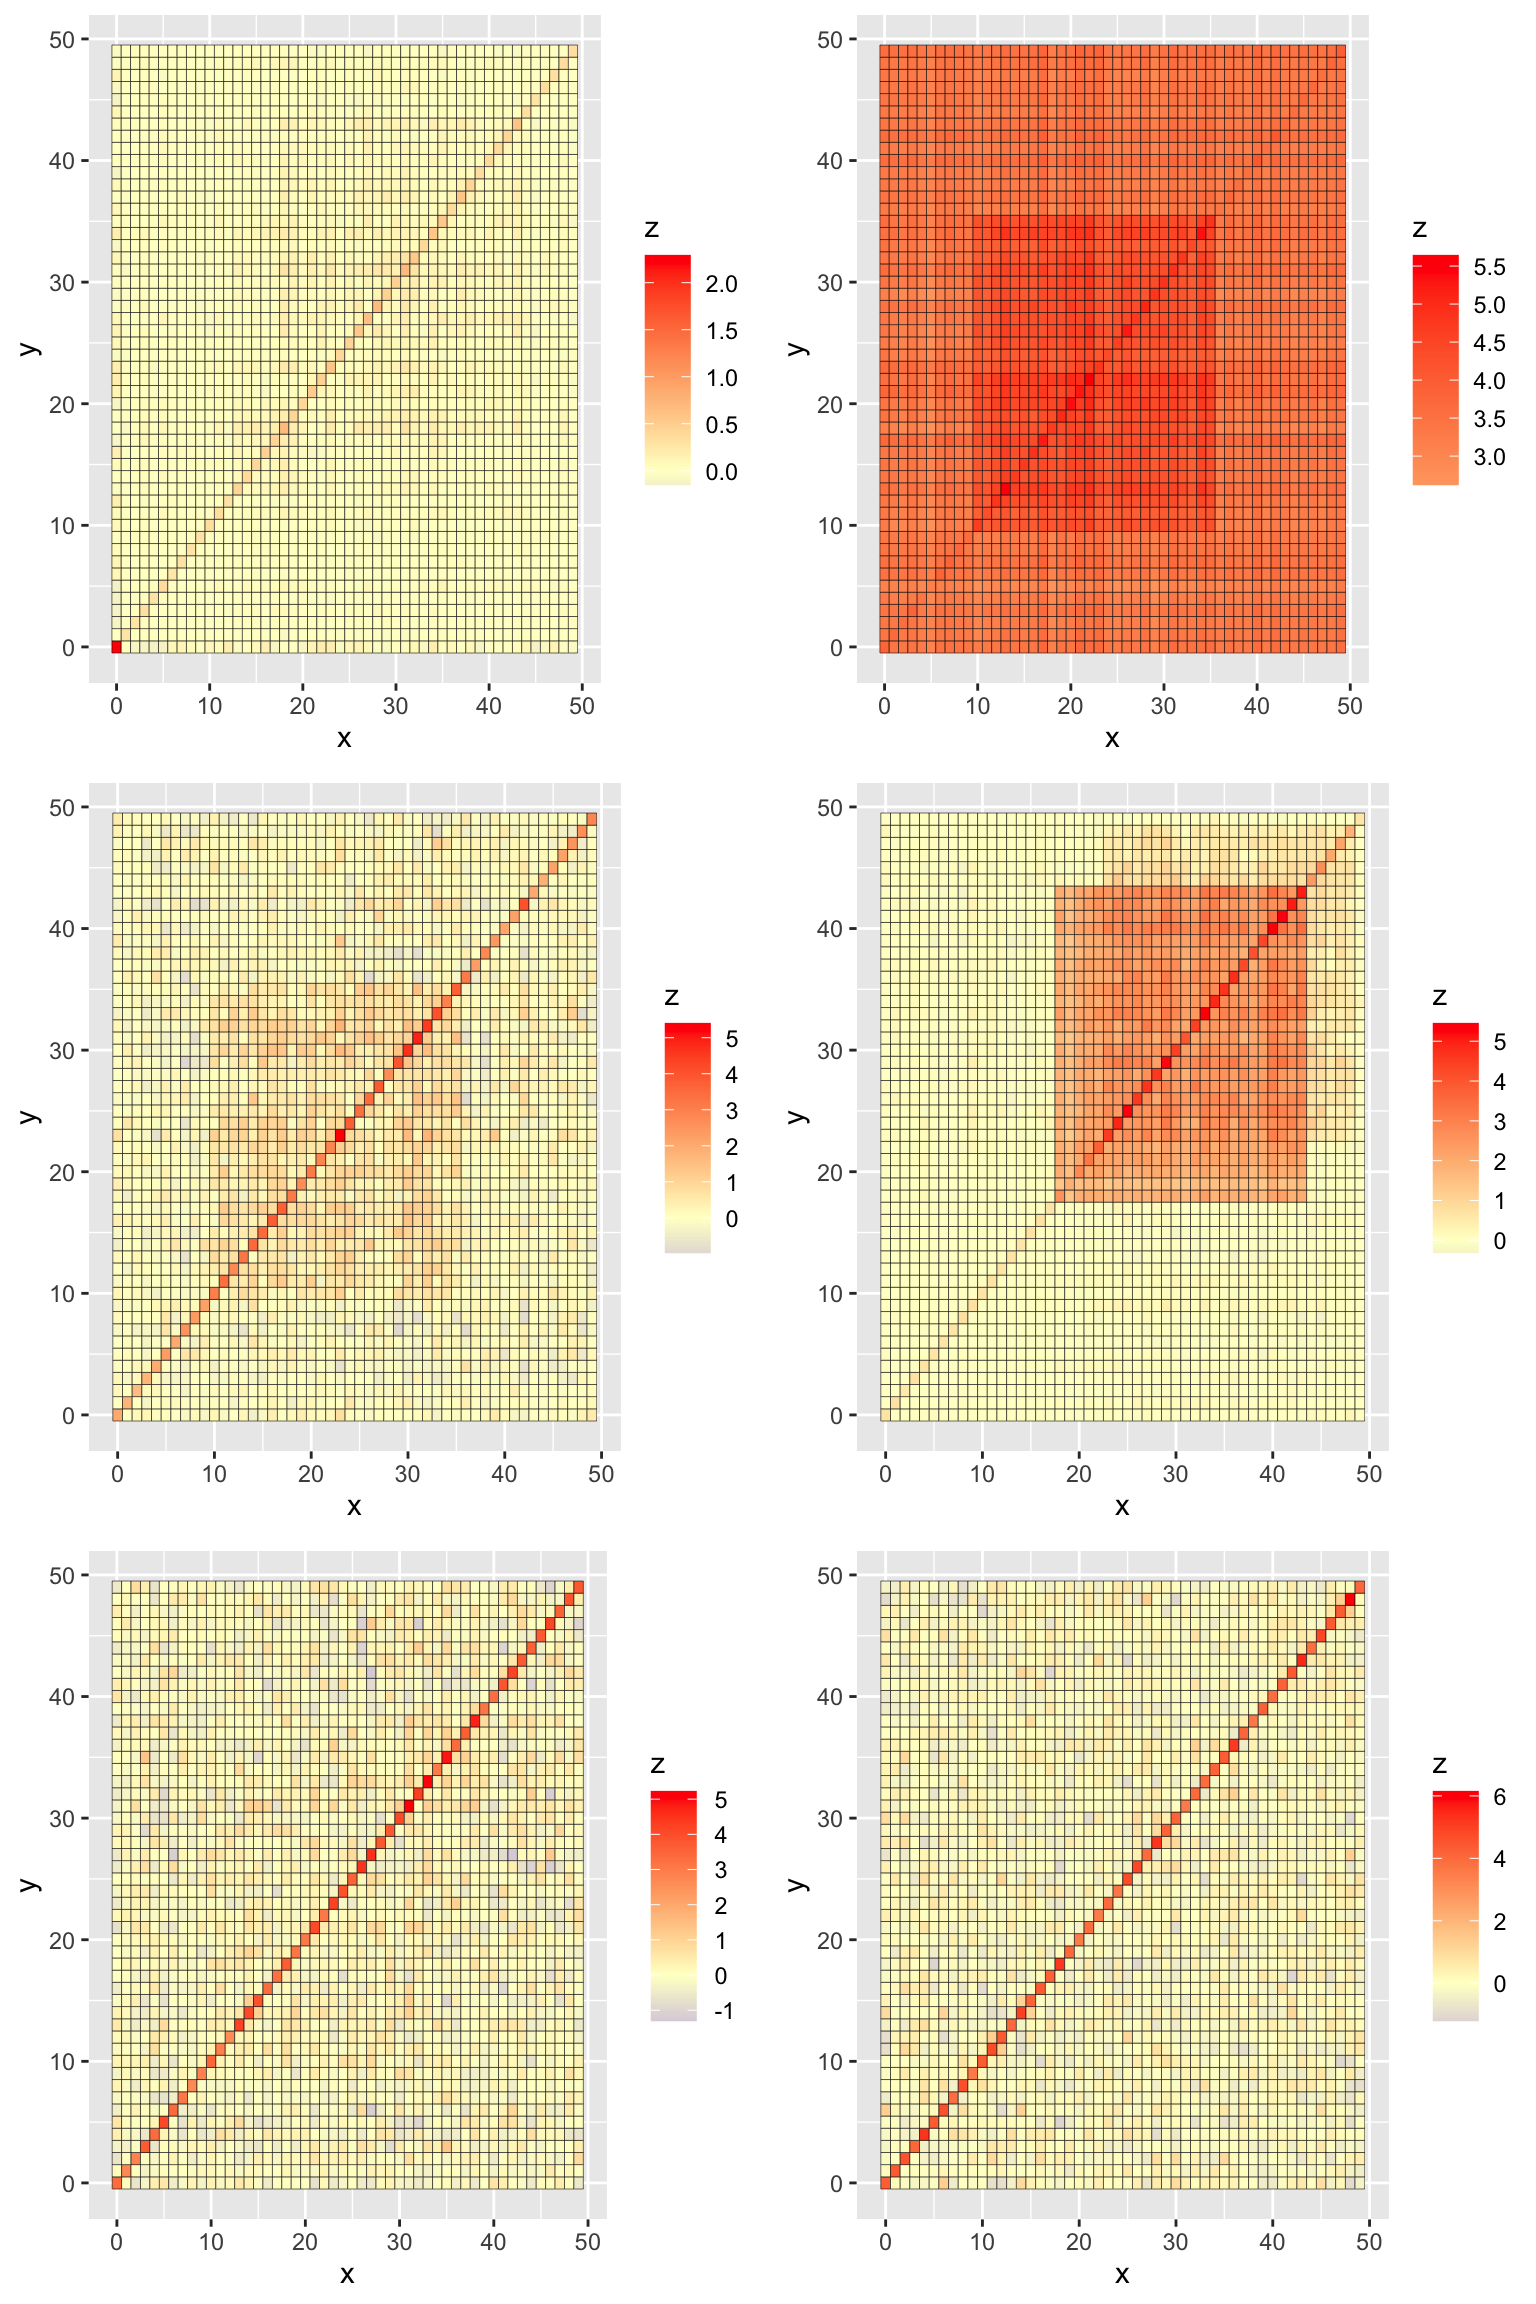
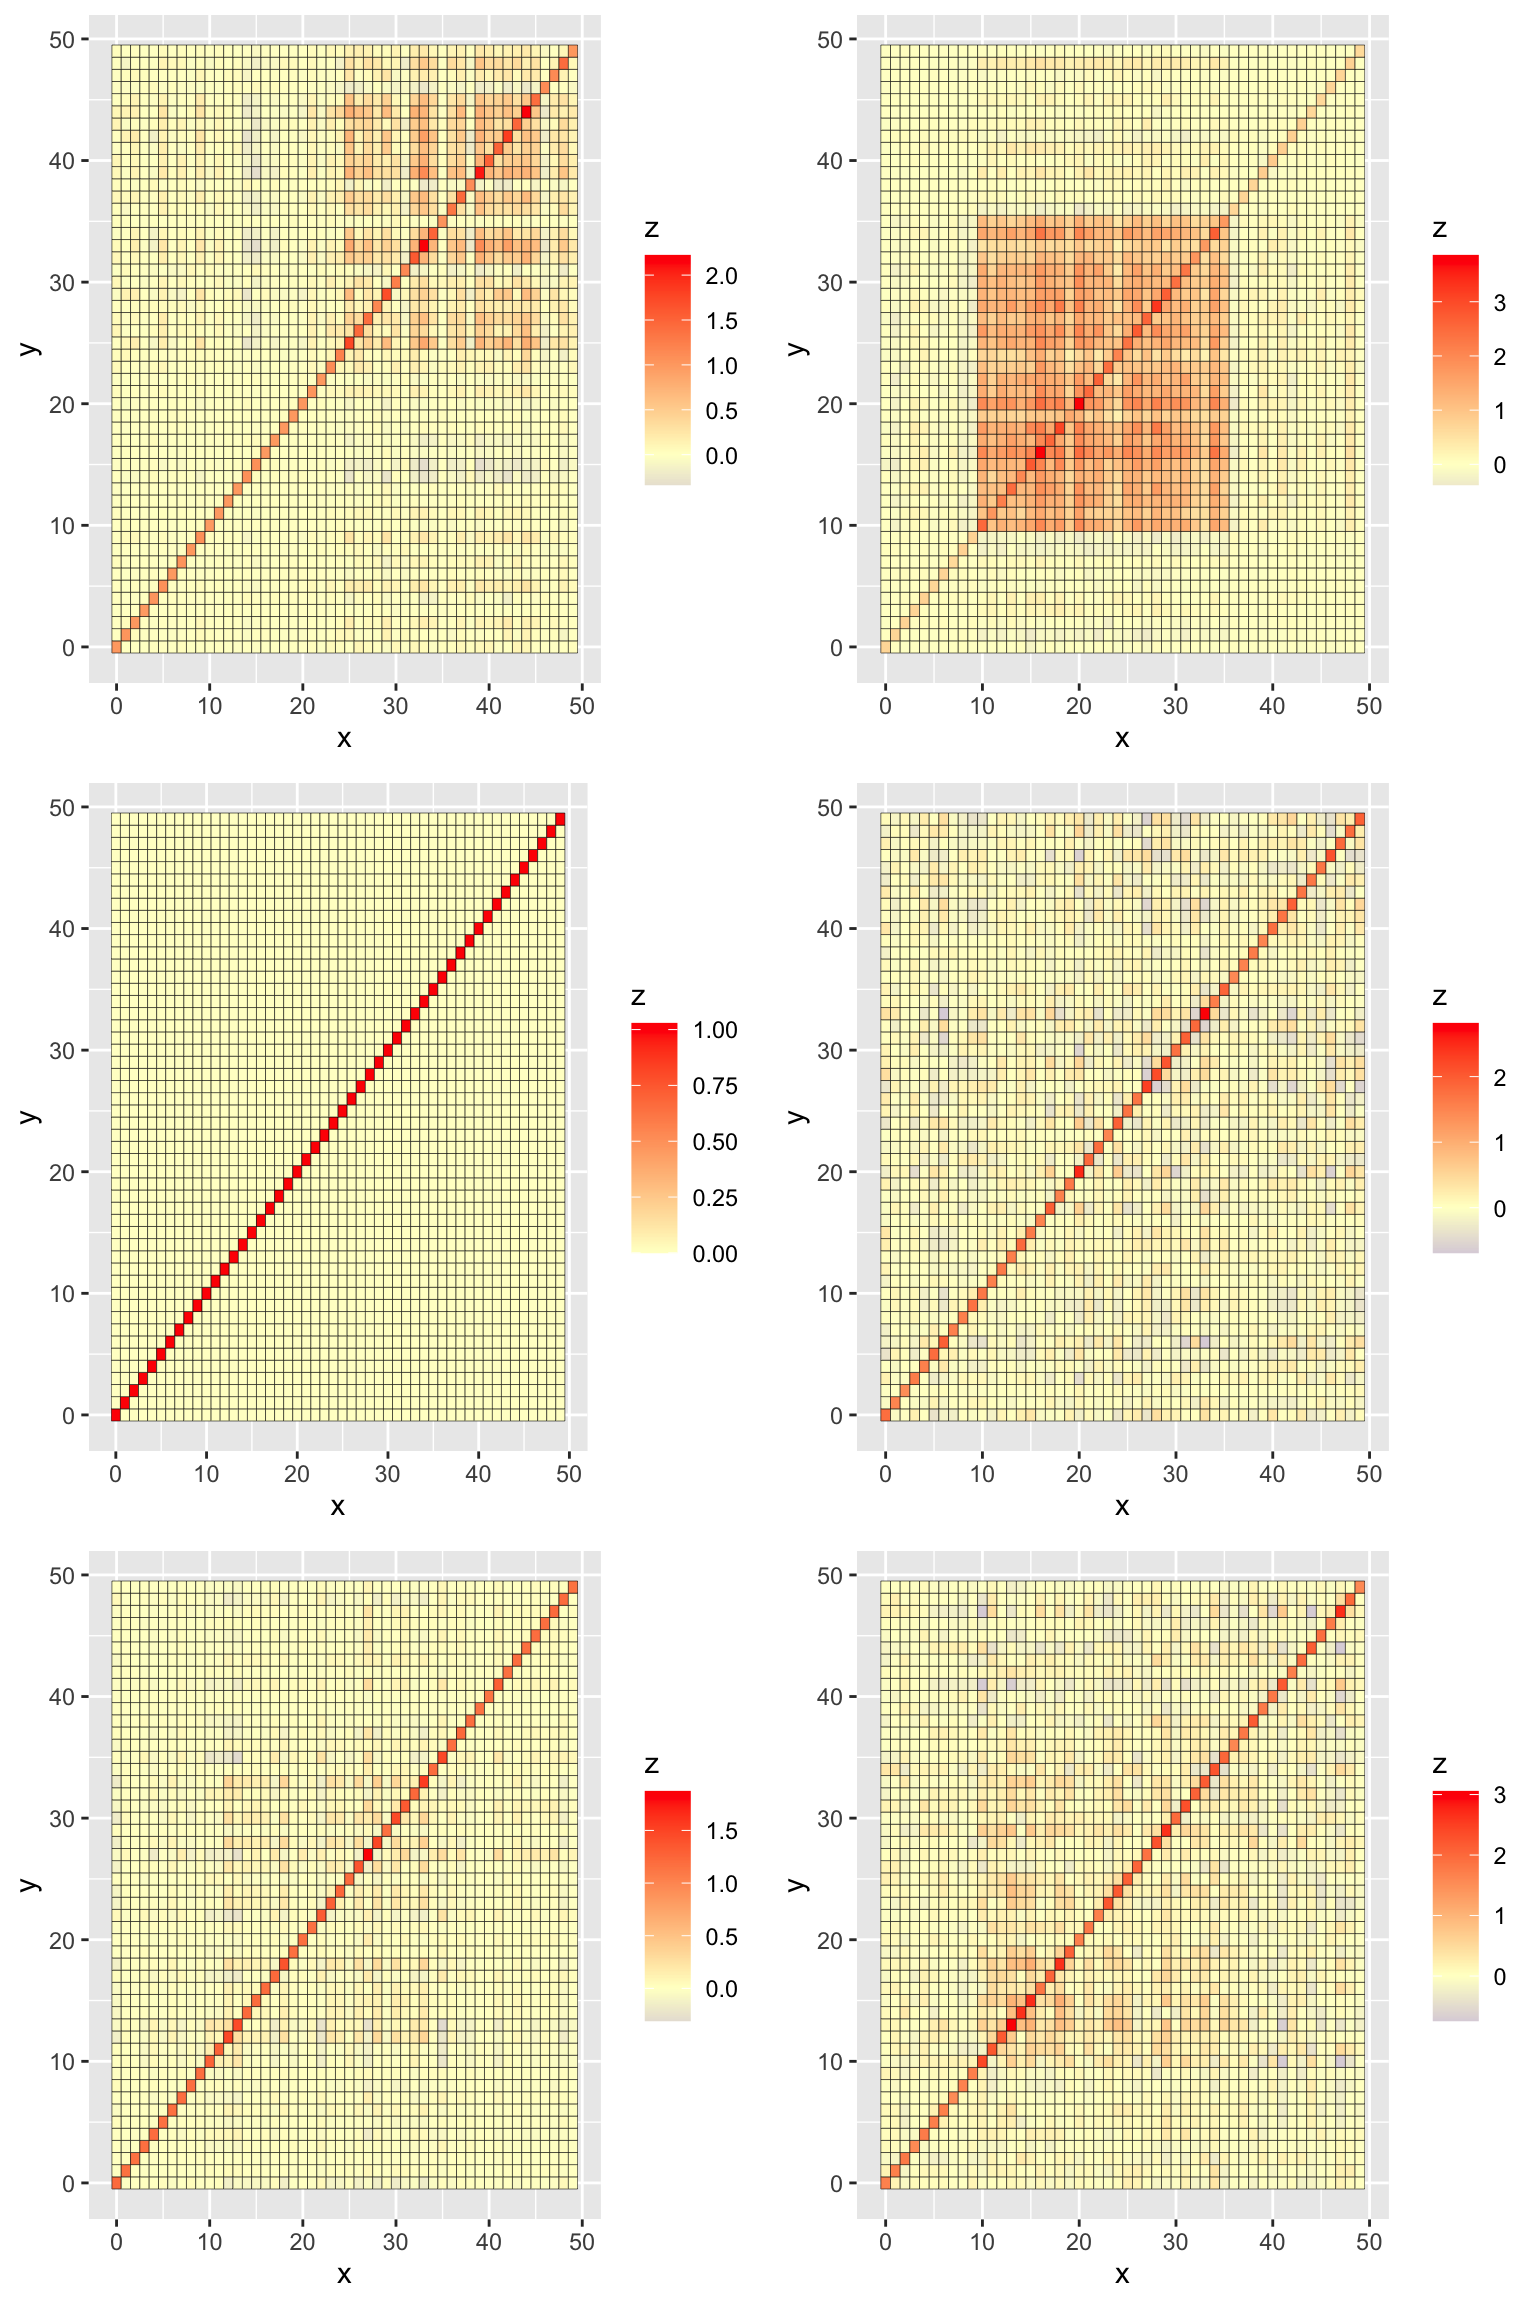
Build site.

diff --git a/docs/vary_ncomp.html b/docs/vary_ncomp.html
@@ -476,16 +476,16 @@ This reproducible <a href="http://rmarkdown.rstudio.com">R Markdown</a> analysis
 <div class="panel panel-default">
 <div class="panel-heading">
 <p class="panel-title">
-<a data-toggle="collapse" data-parent="#workflowr-checks" href="#strongRepositoryversionstrongahrefhttpsgithubcomyunqiyang0215udrpapertree51f354dd8ea254bd65b4e93625f30508cc0e09d2targetblank51f354da"> <span class="glyphicon glyphicon-ok text-success" aria-hidden="true"></span> <strong>Repository version:</strong> <a href="https://github.com/yunqiyang0215/udr-paper/tree/51f354dd8ea254bd65b4e93625f30508cc0e09d2" target="_blank">51f354d</a> </a>
+<a data-toggle="collapse" data-parent="#workflowr-checks" href="#strongRepositoryversionstrongahrefhttpsgithubcomyunqiyang0215udrpapertreebd311a429152110260af1f727cf86dde5a1da6e1targetblankbd311a4a"> <span class="glyphicon glyphicon-ok text-success" aria-hidden="true"></span> <strong>Repository version:</strong> <a href="https://github.com/yunqiyang0215/udr-paper/tree/bd311a429152110260af1f727cf86dde5a1da6e1" target="_blank">bd311a4</a> </a>
 </p>
 </div>
[2 lines of base64/hex data omitted]
 <div class="panel-body">
 <p>
 Great! You are using Git for version control. Tracking code development and connecting the code version to the results is critical for reproducibility.
 </p>
 <p>
-The results in this page were generated with repository version <a href="https://github.com/yunqiyang0215/udr-paper/tree/51f354dd8ea254bd65b4e93625f30508cc0e09d2" target="_blank">51f354d</a>. See the <em>Past versions</em> tab to see a history of the changes made to the R Markdown and HTML files.
+The results in this page were generated with repository version <a href="https://github.com/yunqiyang0215/udr-paper/tree/bd311a429152110260af1f727cf86dde5a1da6e1" target="_blank">bd311a4</a>. See the <em>Past versions</em> tab to see a history of the changes made to the R Markdown and HTML files.
 </p>
 <p>
 Note that you need to be careful to ensure that all relevant files for the analysis have been committed to Git prior to generating the results (you can use <code>wflow_publish</code> or <code>wflow_git_commit</code>). workflowr only checks the R Markdown file, but you know if there are other scripts or data files that it depends on. Below is the status of the Git repository when the results were generated:
@@ -539,6 +539,40 @@ Message
 </tr>
 </thead>
 <tbody>
+<tr>
+<td>
+Rmd
+</td>
+<td>
+<a href="https://github.com/yunqiyang0215/udr-paper/blob/bd311a429152110260af1f727cf86dde5a1da6e1/analysis/vary_ncomp.Rmd" target="_blank">bd311a4</a>
+</td>
+<td>
+yunqiyang0215
+</td>
+<td>
+2022-11-28
+</td>
+<td>
+wflow_publish("analysis/vary_ncomp.Rmd")
+</td>
+</tr>
+<tr>
+<td>
+html
+</td>
+<td>
+<a href="https://rawcdn.githack.com/yunqiyang0215/udr-paper/2a2ae3602fefedbb520cd20e6aff18c40352d4df/docs/vary_ncomp.html" target="_blank">2a2ae36</a>
+</td>
+<td>
+yunqiyang0215
+</td>
+<td>
+2022-11-28
+</td>
+<td>
+Build site.
+</td>
+</tr>
 <tr>
 <td>
 Rmd
@@ -1141,6 +1175,7 @@ yunqiyang0215
 <div id="components" class="section level1">
 <h1>100 components</h1>
 <pre class="r"><code># Initialization
+ncomp = 100
 set.seed(888)
 U.init = c()
 for (k in 1:ncomp){
@@ -1155,14 +1190,20 @@ fit.ed_reg = ud_fit(f0, control = list(unconstrained.update = &quot;ed&quot;, re
                                     tol = 1e-02, tol.lik = 1e-2, n0 = round(R), lambda = 0, maxiter = 5e3), verbose=FALSE)
 fit.ted = ud_fit(f0, control = list(unconstrained.update = &quot;ted&quot;, resid.update = &#39;none&#39;,
                                         tol = 1e-02, tol.lik = 1e-2, n0 = 0, lambda = 0, maxiter = 5e3), verbose=FALSE)</code></pre>
+<div class="alert alert-warning">
+<p>
+<strong>Warning:</strong> The above code chunk cached its results, but it won’t be re-run if previous chunks it depends on are updated. If you need to use caching, it is highly recommended to also set <code>knitr::opts_chunk$set(autodep = TRUE)</code> at the top of the file (in a chunk that is not cached). Alternatively, you can customize the option <code>dependson</code> for each individual chunk that is cached. Using either <code>autodep</code> or <code>dependson</code> will remove this warning. See the <a href="https://yihui.name/knitr/options/#cache"
+>knitr cache options</a> for more details.
+</p>
+</div>
 <div id="check-mixture-model-weights-1" class="section level4">
 <h4>Check mixture model weights</h4>
 <pre class="r"><code>sum(fit.ted_reg$w &gt; 1e-2)
 sum(fit.ed_reg$w &gt; 1e-2)
 sum(fit.ted$w &gt; 1e-2)
-# [1] 6
-# [1] 6
-# [1] 6</code></pre>
+# [1] 5
+# [1] 15
+# [1] 40</code></pre>
 <pre class="r"><code>U.ted_reg &lt;- lapply(fit.ted_reg$U,function (e) &quot;[[&quot;(e,&quot;mat&quot;))
 U.ed_reg &lt;- lapply(fit.ed_reg$U,function (e) &quot;[[&quot;(e,&quot;mat&quot;))
 U.ted &lt;- lapply(fit.ed_reg$U,function (e) &quot;[[&quot;(e,&quot;mat&quot;))
@@ -1373,14 +1414,15 @@ yunqiyang0215
 # [17] jquerylib_0.1.4  Matrix_1.3-4     rmarkdown_2.11   labeling_0.4.2  
 # [21] stringr_1.4.0    munsell_0.5.0    mixsqp_0.3-43    compiler_4.1.1  
 # [25] httpuv_1.6.3     xfun_0.27        pkgconfig_2.0.3  SQUAREM_2021.1  
-# [29] htmltools_0.5.2  tidyselect_1.1.1 tibble_3.1.5     fansi_0.5.0     
-# [33] crayon_1.4.1     dplyr_1.0.7      withr_2.4.2      later_1.3.0     
-# [37] grid_4.1.1       gtable_0.3.0     lifecycle_1.0.1  git2r_0.28.0    
-# [41] magrittr_2.0.1   scales_1.1.1     stringi_1.7.5    farver_2.1.0    
-# [45] fs_1.5.0         promises_1.2.0.1 ellipsis_0.3.2   vctrs_0.3.8     
-# [49] generics_0.1.2   rmeta_3.0        tools_4.1.1      glue_1.4.2      
-# [53] softImpute_1.4-1 purrr_0.3.4      abind_1.4-5      parallel_4.1.1  
-# [57] fastmap_1.1.0    yaml_2.2.1       colorspace_2.0-2 knitr_1.36</code></pre>
+# [29] htmltools_0.5.2  tidyselect_1.1.1 tibble_3.1.5     codetools_0.2-18
+# [33] fansi_0.5.0      crayon_1.4.1     dplyr_1.0.7      withr_2.4.2     
+# [37] later_1.3.0      grid_4.1.1       gtable_0.3.0     lifecycle_1.0.1 
+# [41] git2r_0.28.0     magrittr_2.0.1   scales_1.1.1     stringi_1.7.5   
+# [45] farver_2.1.0     fs_1.5.0         promises_1.2.0.1 ellipsis_0.3.2  
+# [49] vctrs_0.3.8      generics_0.1.2   rmeta_3.0        tools_4.1.1     
+# [53] glue_1.4.2       softImpute_1.4-1 purrr_0.3.4      abind_1.4-5     
+# [57] parallel_4.1.1   fastmap_1.1.0    yaml_2.2.1       colorspace_2.0-2
+# [61] knitr_1.36</code></pre>
 </div>
 </div>
 </div>
